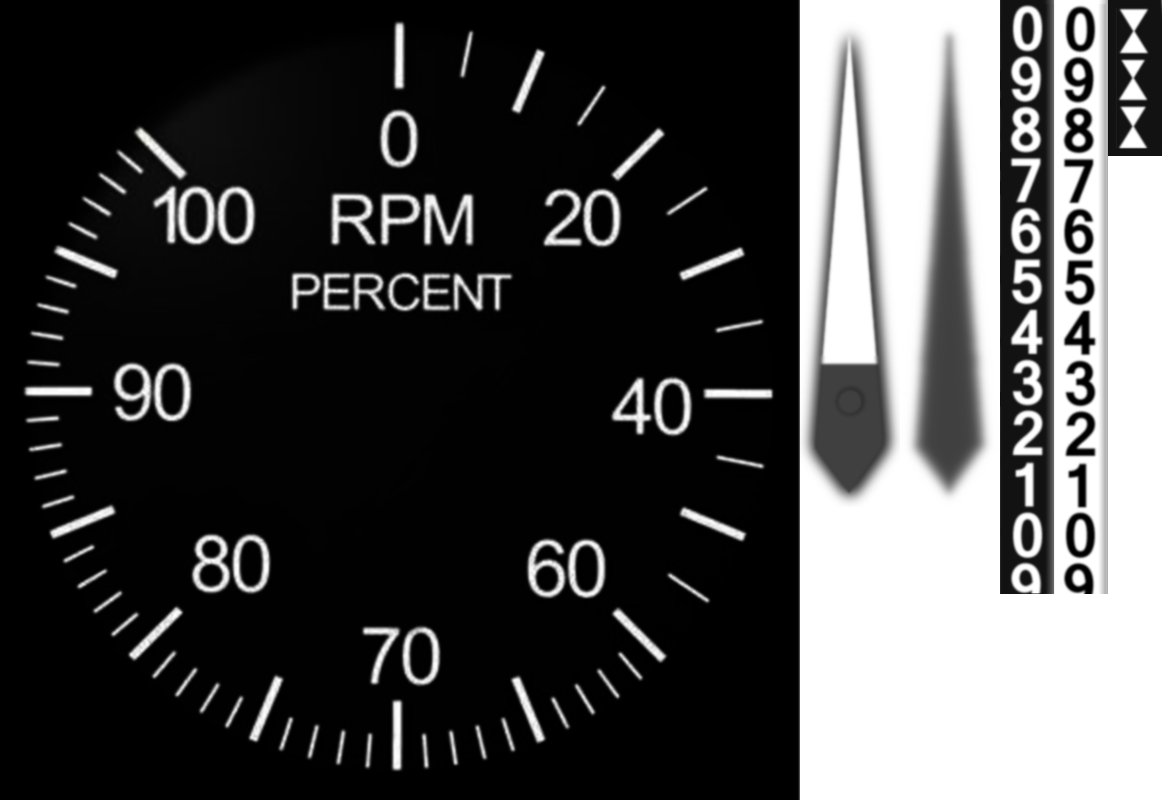
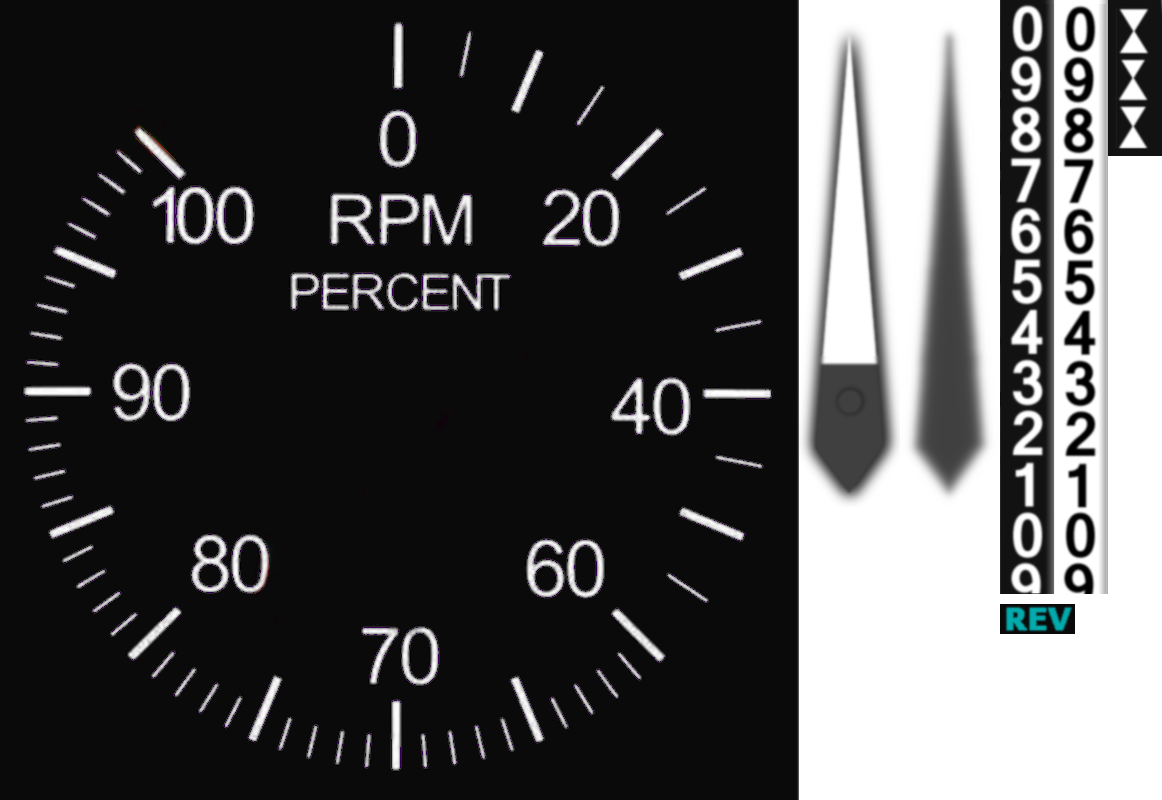
Re-organise files

diff --git a/instrument-panel/instruments/alternate/rpmPercent.cpp b/instrument-panel/instruments/alternate/rpmPercent.cpp
@@ -76,6 +76,12 @@ void rpmPercent::resize()
     al_draw_scaled_bitmap(orig, 1108, 0, 54, 156, 0, 0, 54 * scaleFactor, 156 * scaleFactor, 0);
     addBitmap(bmp);
 
+    // 8 = Reverse thrust indicator
+    bmp = al_create_bitmap(75 * scaleFactor, 30 * scaleFactor);
+    al_set_target_bitmap(bmp);
+    al_draw_scaled_bitmap(orig, 1000, 604, 75, 30, 0, 0, 75 * scaleFactor, 30 * scaleFactor, 0);
+    addBitmap(bmp);
+
     al_set_target_backbuffer(globals.display);
 }
 
@@ -110,6 +116,11 @@ void rpmPercent::render()
 
     // Add pointer
     al_draw_scaled_rotated_bitmap(bitmaps[3], 50, 400, 400 * scaleFactor, 400 * scaleFactor, scaleFactor, scaleFactor, angle * DegreesToRadians, 0);
+
+    // Add reverse thrust indicator
+    if (simVars->throttlePosition < 0) {
+        al_draw_bitmap(bitmaps[8], 362 * scaleFactor, 496 * scaleFactor, 0);
+    }
 
     // Position dest bitmap on screen
     al_set_target_backbuffer(globals.display);

diff --git a/instrument-panel/instruments/asi.cpp b/instrument-panel/instruments/asi.cpp
@@ -2,7 +2,7 @@
 #include <stdlib.h>
 #include <math.h>
 #include "asi.h"
-#include "genericFast/asiFast.h"
+#include "alternate/asiFast.h"
 #include "savageCub/asiSavageCub.h"
 #include "simvars.h"
 #include "knobs.h"

diff --git a/instrument-panel/instruments/rpm.cpp b/instrument-panel/instruments/rpm.cpp
@@ -2,7 +2,7 @@
 #include <stdlib.h>
 #include <math.h>
 #include "rpm.h"
-#include "rpmPercent.h"
+#include "alternate/rpmPercent.h"
 #include "savageCub/rpmSavageCub.h"
 #include "simvars.h"
 #include "knobs.h"

diff --git a/instrument-panel/instruments/alt.cpp b/instrument-panel/instruments/alt.cpp
@@ -1,7 +1,7 @@
 #include <stdio.h>
 #include <stdlib.h>
 #include "alt.h"
-#include "genericFast/altFast.h"
+#include "alternate/altFast.h"
 #include "simvars.h"
 #include "knobs.h"
 
